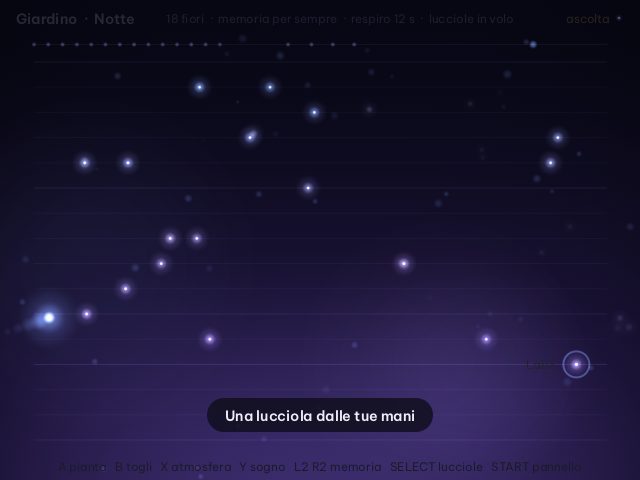
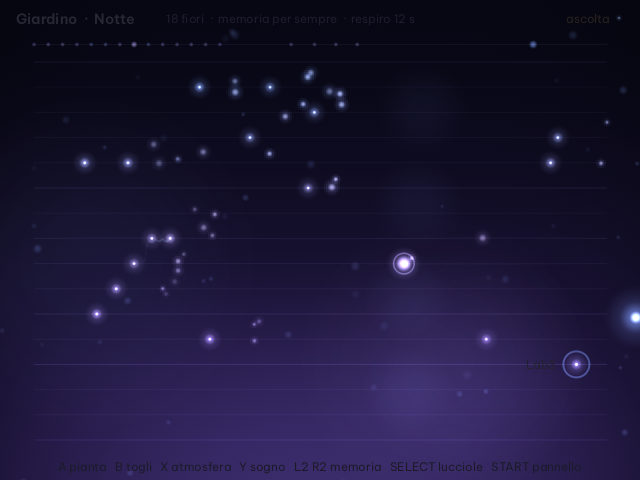
Fioritura: the calmer microphone, new screenshots
Breeze and firefly of light instead of wind and new fireflies; the
speaker check compares the garden with what the microphone hears.

Claude-Session: https://claude.ai/code/session_01PAmGYqe5baDNteuswP3moD

diff --git a/fioritura/index.html b/fioritura/index.html
@@ -186,7 +186,7 @@ td:last-child { color: #cfcbe2; }
       <p class="motto">un giardino di suoni e luci · Miyoo Flip</p>
       <h1>Fioritura</h1>
       <p class="intro">Pianti una nota: fiorisce sullo schermo e torna a ogni respiro, sempre più piano, finché il giardino non la dimentica. Se lo lasci stare, il giardino sogna e continua da solo. Accanto, in una griglia, le lucciole volano dritte, suonano quando toccano un bordo e girano quando si incontrano.</p>
-      <p class="intro">Non serve saper suonare. È fatta per le cuffie, la sera, o per tenere un sottofondo mentre fai altro. Con un microfono USB <a href="#microfono">ti ascolta</a>: canti e fiorisce, soffi e c'è vento, batti le mani e nasce una lucciola.</p>
+      <p class="intro">Non serve saper suonare. È fatta per le cuffie, la sera, o per tenere un sottofondo mentre fai altro. Con un microfono USB <a href="#microfono">ti ascolta</a>: canti e fiorisce, soffi e passa una brezza, batti le mani e passa una lucciola.</p>
       <div class="bottoni">
         <a class="bottone primo" href="#giardino">Come funziona</a>
         <a class="bottone" href="https://github.com/luigismith/cirmolo/blob/cirmolo/App/Fioritura/MANUAL.it.md">Manuale completo</a>
@@ -364,24 +364,24 @@ td:last-child { color: #cfcbe2; }
     <div class="galleria">
       <figure>
         <img src="img/canto.png" width="640" height="480" loading="lazy" alt="Il giardino nella Notte mentre qualcuno canta: una scia di luce sale a scalini con il vibrato della voce, e su ogni scalino è sbocciato un fiore con i suoi anelli">
-        <figcaption><b>Canta</b>Una scia di luce scrive la tua voce da sinistra a destra, all'altezza esatta, vibrato compreso. Ogni nota che tieni per un attimo diventa un fiore sulla corda più vicina, e il giardino te la ripete a ogni respiro.</figcaption>
+        <figcaption><b>Canta</b>Una scia di luce scrive la tua voce da sinistra a destra, all'altezza esatta, vibrato compreso. Ogni nota che tieni per un attimo diventa un fiore sulla corda più vicina, più piano di quelli piantati a mano, e il giardino te la ripete a ogni respiro.</figcaption>
       </figure>
       <figure>
         <img src="img/soffio.png" width="640" height="480" loading="lazy" alt="Il giardino nella Notte mentre qualcuno soffia: le corde ondeggiano, petali di luce volano verso destra, al centro passa un fronte di luce chiara">
-        <figcaption><b>Soffia</b>Si alza il vento: le corde ondeggiano, i petali volano via e un fronte di luce attraversa il giardino, pizzicando piano i fiori che incontra come un'arpa eolica. Su un giardino quasi vuoto, semina.</figcaption>
+        <figcaption><b>Soffia</b>Passa una brezza: le corde ondeggiano piano, qualche petalo vola via e un fronte di luce attraversa lentamente il giardino, sfiorando i fiori che incontra come un'arpa eolica. Su un giardino quasi vuoto, semina.</figcaption>
       </figure>
       <figure>
-        <img src="img/battito.png" width="640" height="480" loading="lazy" alt="Il giardino nella Notte dopo un battito di mani: una lucciola luminosa entra in volo da destra e in basso compare la scritta Una lucciola dalle tue mani">
-        <figcaption><b>Batti le mani</b>Nasce una lucciola, che attraversa il giardino in volo, e le lucciole partono. Se batti a tempo, dal quarto battito volano al tuo tempo, con un passo su ogni battito.</figcaption>
+        <img src="img/battito.png" width="640" height="480" loading="lazy" alt="Il giardino nella Notte dopo un battito di mani: una lucciola di luce entra piano dal bordo">
+        <figcaption><b>Batti le mani</b>Una lucciola di luce entra piano nel giardino, con un rintocco lieve. Le lucciole della griglia non partono da sole: se volano già, ne nasce una nuova, e battendo a tempo prendono il tuo, tra 60 e 120 BPM.</figcaption>
       </figure>
     </div>
     <div class="due" style="margin-top: clamp(26px, 4vw, 44px)">
       <figure class="foto">
-        <img src="img/pannello-ascolto.png" width="640" height="480" loading="lazy" alt="Il pannello con la riga Ascolto scelta al 50 per cento; in basso il promemoria: canta, fiorisce; soffia, c'è vento; batti le mani, nasce una lucciola">
+        <img src="img/pannello-ascolto.png" width="640" height="480" loading="lazy" alt="Il pannello con la riga Ascolto scelta al 50 per cento; in basso il promemoria: canta, fiorisce; soffia, una brezza; batti le mani, una lucciola">
         <figcaption>Nel pannello, la riga Ascolto: in basso, il promemoria dei tre gesti.</figcaption>
       </figure>
       <div class="schede" style="grid-template-columns: minmax(0, 1fr)">
-        <div class="scheda" style="--c: var(--oro)"><h3>Non ascolta se stesso</h3><p>Se il microfono sente l'altoparlante della Flip, dopo poche note il giardino se ne accorge: impara quanto forte gli arriva e ascolta solo quello che lo supera. Una nota che comincia subito dopo la stessa nota del giardino non conta. In cuffia ascolta tutto.</p></div>
+        <div class="scheda" style="--c: var(--oro)"><h3>Non ascolta se stesso</h3><p>Confronta di continuo quello che suona con quello che sente: se il microfono segue il giardino (l'altoparlante della Flip è vicino), in pochi secondi se ne accorge, impara quanto forte gli arriva e ascolta solo quello che lo supera. Una nota che comincia subito dopo la stessa nota del giardino non conta. In cuffia ascolta tutto.</p></div>
         <div class="scheda" style="--c: var(--viola)"><h3>Ascolto</h3><p>Nel pannello regola la sensibilità o spegne l'orecchio. In alto a destra un puntino si accende con quello che sente. Chi canta tiene sveglio il giardino: il sogno aspetta il silenzio.</p><span class="valore">10–100% · o spento</span></div>
       </div>
     </div>
@@ -398,7 +398,7 @@ td:last-child { color: #cfcbe2; }
     <div class="file">
       <p><code>Saves/fioritura/registrazioni/fioritura-2026-10-12-213000.wav</code> WAV stereo, 48 kHz, 16 bit</p>
       <p><code>Saves/fioritura/stato.txt</code> atmosfere, impostazioni, fiori e lucciole</p>
-      <p><code>App/Fioritura/src</code> i sorgenti in C, con 133 prove automatiche</p>
+      <p><code>App/Fioritura/src</code> i sorgenti in C, con 139 prove automatiche</p>
     </div>
   </div>
 </section>

diff --git a/index.html b/index.html
@@ -191,7 +191,7 @@ p { margin: 0; }
     </div>
     <div class="schede">
       <div class="scheda speciale"><h3>OpenOrc</h3><p>Sintetizzatore di accordi ispirato all'Orchid, per la Akai MPK mini IV o i tasti della Flip. Sette motori (anche un coro di voci), 28 suoni in stereo con shimmer, nastro e pompa, i tuoi suoni salvati, looper a strati.</p><a class="manuale" href="openorc/">Leggi il manuale illustrato</a></div>
-      <div class="scheda speciale fiore"><h3>Fioritura</h3><p>Un giardino di suoni e luci: pianti una nota, fiorisce e torna a ogni respiro sempre più piano; se lo lasci stare, sogna da solo. Lucciole che rimbalzano in una griglia, sei atmosfere, Launchpad con i LED a colori. Con un microfono ti ascolta: canti e fiorisce, soffi e c'è vento, batti le mani e nasce una lucciola.</p><a class="manuale" href="fioritura/">Scoprila e provala nel browser</a></div>
+      <div class="scheda speciale fiore"><h3>Fioritura</h3><p>Un giardino di suoni e luci: pianti una nota, fiorisce e torna a ogni respiro sempre più piano; se lo lasci stare, sogna da solo. Lucciole che rimbalzano in una griglia, sei atmosfere, Launchpad con i LED a colori. Con un microfono ti ascolta: canti e fiorisce, soffi e passa una brezza, batti le mani e passa una lucciola.</p><a class="manuale" href="fioritura/">Scoprila e provala nel browser</a></div>
       <div class="scheda"><h3>Cirmolo Synth</h3><p>Otto voci con filtro risonante, batteria e sequencer a 16 passi, arpeggiatore, preset e registrazione in WAV.</p><a class="manuale" href="synth/">Scopri Cirmolo Synth</a></div>
       <div class="scheda"><h3>Cirmolo Sampler</h3><p>Campionatore a 16 pad con sequencer, registrazione dal microfono USB, libreria dei campioni, esportazione in WAV e Launchpad.</p><a class="manuale" href="sampler/">Scopri Cirmolo Sampler</a></div>
       <div class="scheda"><h3>Cirmolo Piano</h3><p>Strumento General MIDI con il SoundFont GeneralUser GS: 287 preset da suonare con la tastiera MIDI.</p><a class="manuale" href="piano/">Scopri Cirmolo Piano</a></div>
